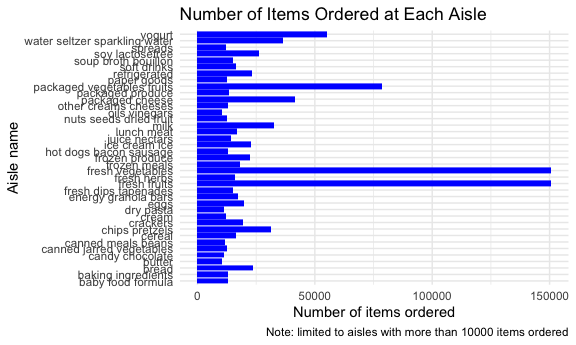
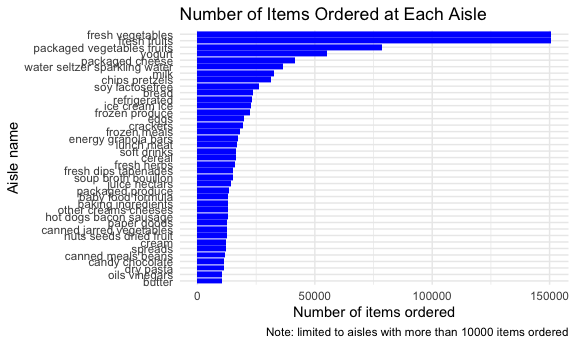
modify plot for problem 1

Changed region(s): [[0.0312, 0.087, 0.3125, 0.8406], [0.375, 0.087, 0.9688, 0.6957], [0.375, 0.7536, 0.4375, 0.8406]]

diff --git a/p8105_hw3_ml5018.md b/p8105_hw3_ml5018.md
@@ -208,6 +208,7 @@ instacart |>
   group_by(aisle) |>
   summarize(n_obs = n()) |>
   filter(n_obs > 10000) |>
+  mutate(aisle = fct_reorder(aisle, n_obs)) |>
   ggplot(aes(x = aisle, y = n_obs)) +
   geom_col(fill = "blue") +
   coord_flip() +
